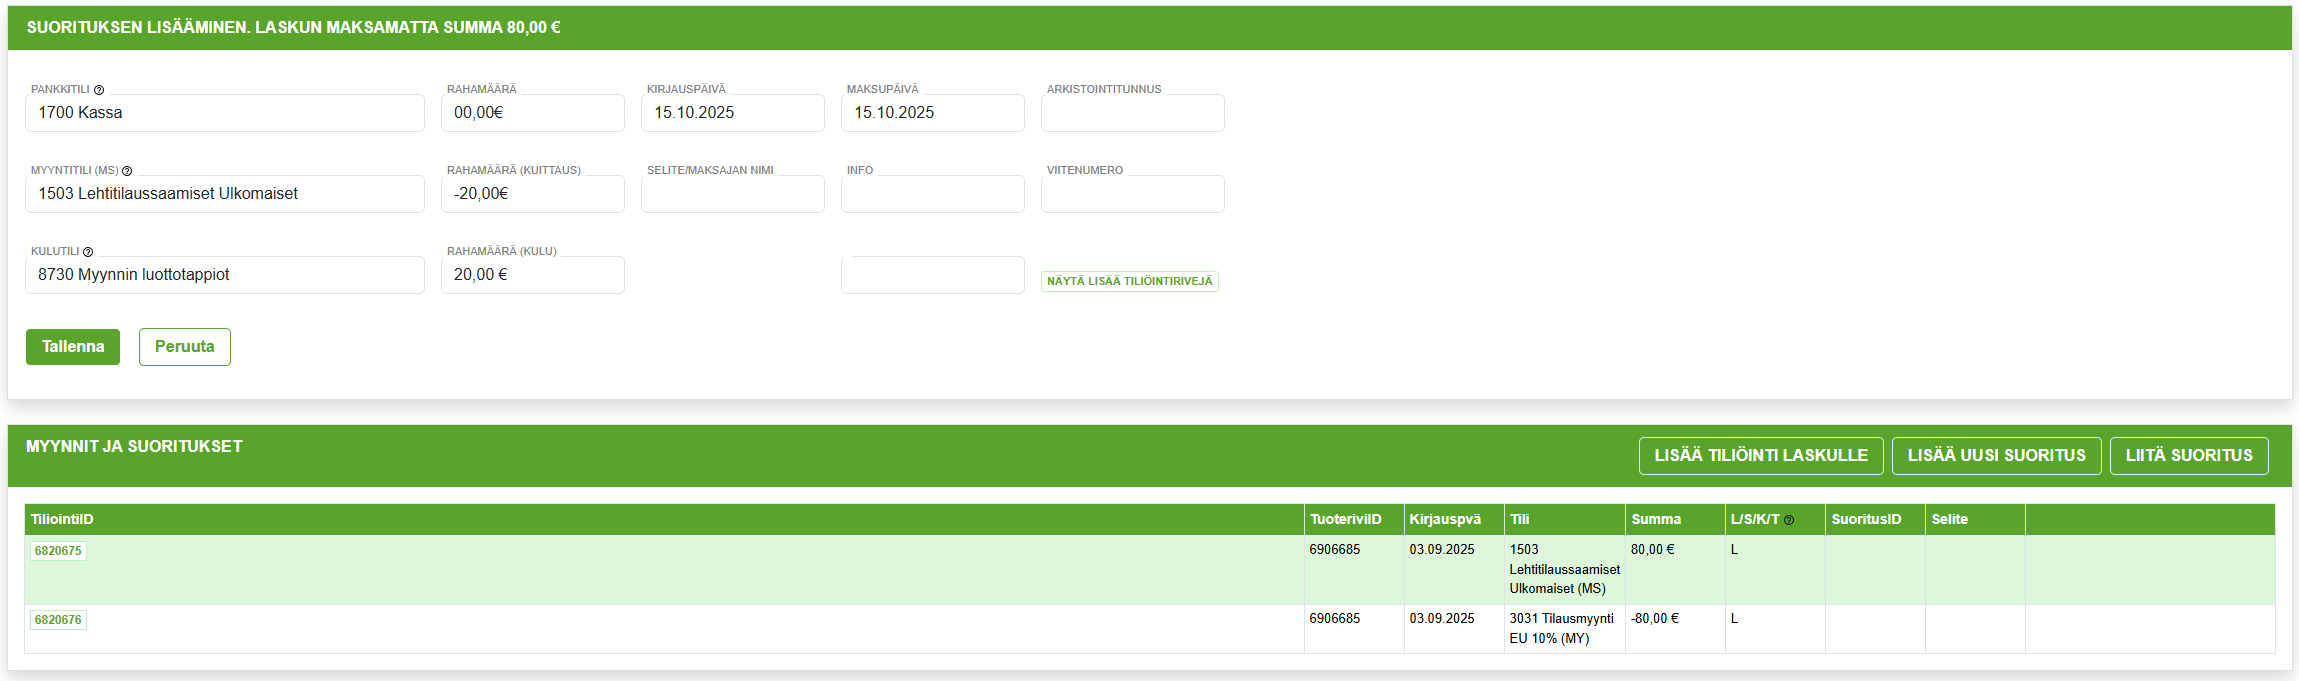
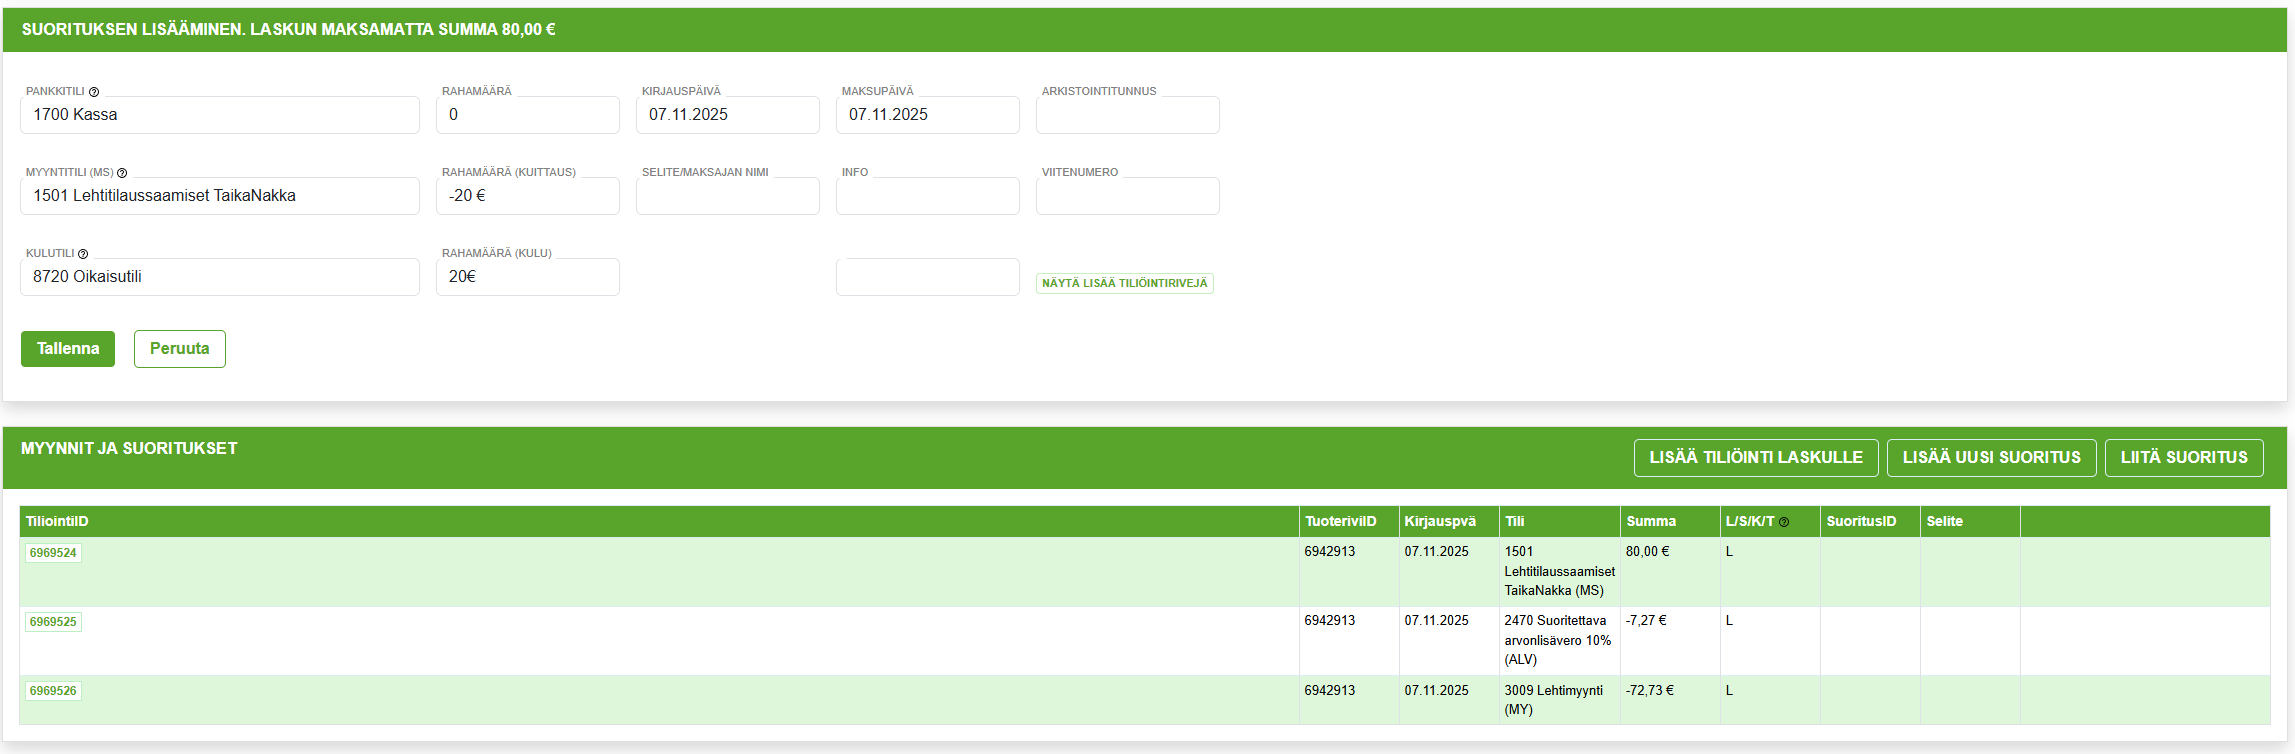
osahyvitys kuvat

diff --git a/docs/ohjeet/ilmoitustenhallinta/ilmoitusasiakas.md b/docs/ohjeet/ilmoitustenhallinta/ilmoitusasiakas.md
@@ -6,89 +6,129 @@ sidebar_position: 1
 
 ## Ilmoitusasiakas
 
-Asiakaskohtaiseen **Ilmoitusasiakas**–palveluun pääsee hakemalla asiakkaan etusivulta ja sitten klikkaamalla **Näytä ilmoitusmyynti** –linkkiä asiakasriviltä.
+Asiakaskohtaiseen **Ilmoitusasiakas**–palveluun pääsee hakemalla asiakkaan **Etusivulta** ja klikkaamalla **Näytä ilmoitusmyynti** -linkkiä asiakasriviltä.
 
 ![Etusivu](/img/ohjeet/ilmoitusasiakas.png)
 
 *Etusivun haun kautta pääset ilmoitusmyynnin hallintaan.*
 
-Ohjelman päävalikkoon ilmestyy uusi **Ilmoitusasiakas**-välilehti, josta pääsee palaamaan haetun asiakkaan tietoihin takaisin, mikäli siirtyy välillä muualle ohjelmaan.
+Kun ilmoitusasiakas on avattu, ohjelman päävalikkoon ilmestyy uusi **Ilmoitusasiakas**-välilehti. Sen kautta pääset helposti palaamaan asiakkaan tietoihin, vaikka siirtyisit välillä ohjelman muihin osiin.
 
 ![Ilmoitusasiakas-välilehti](/img/ohjeet/ilmoitusasiakas3.png)
 
 *Löydät käsittelemäsi ilmoitusasiakkaan ohjelman päävalikosta vaikka välillä tekisit ohjelmassa jotain muuta.*
 
+---
+
 ## Ilmoitusasiakkaan koontisivu ja välilehdet
 
-**Ilmoitusasiakas**-näkymässä näytetään asiakkaan tiedot ja välilehdet, jotka myös asiakas itse näkee kirjautuessaan OmaPalveluun. Myyjä näkee ylävalikossa lisäksi **Muistio** ja **Myynnit**-välilehdet, joita asiakas ei itse näe. Asiakkaan valitsemisen jälkeen myyjä näkee kyseisen asiakkaan Koonti-näkymän
+**Ilmoitusasiakas**-näkymässä näytetään asiakkaan perustiedot sekä välilehdet, jotka myös asiakas itse näkee kirjautuessaan **OmaPalveluun**. Myyjällä näkyy lisäksi ylävalikossa **Muistio** ja **Myynnit** -välilehdet, joita asiakas ei itse näe.
 
-- Myyjä voi suorittaa myös asiakkaan puolesta toimintoja, kuten omien tietojen päivittämistä
+Asiakkaan valitsemisen jälkeen myyjä näkee asiakkaan **Koonti-näkymän**, josta voi hallita myyntiä ja yhteystietoja.
+
+- Myyjä voi suorittaa asiakkaan puolesta toimintoja, kuten omien tietojen päivittämisen.
 
 ![Ilmoitusasiakas-välilehti](/img/ohjeet/ilmoitusasiakas2.png)
 *Ilmoitusasiakkaan etusivu.*
 
 ### Asiakastiedot
 
-**Asiakastiedot/Omat tiedot** –välilehdellä voi muokata asiakkaan perustietoja, kuten
-- Yhteystietoja
-- Laskutustietoja
-- Yhteyshenkilöiden tietoja
+**Asiakastiedot / Omat tiedot** –välilehdellä voidaan muokata asiakkaan perustietoja, kuten:
+- **Yhteystietoja**
+- **Laskutustietoja**
+- **Yhteyshenkilöiden tietoja**
+
+---
+
+#### Yhteys- ja laskutustiedot
 
 **Yhteys- ja laskutustiedot** vastaavat asiakaskortille tallennettuja tietoja.
-- Laskutustiedoista voidaan myös asettaa asiakas Myyntikieltoon, milloin asiakkaalle ei voi luoda ilmoitusvarauksia (esim. maksamattomien laksujen takia)
-- Myyntikielto asetetaan syöttämällä kenttään vapaamuotoista tekstiä
-- Myyntikielto poistetaan poistamalla kenttään syötetty teksti
 
-**Yhteyshenkilöt** –listaukselle voi tallentaa ilmoitusmyynteihin liittyvien henkilöiden yhteystietoja, kuten esim.
-- Aineistoista vastaavien henkilöiden yhteystiedot
-- Ulkopuoliset aineistojen toimittajat
+- **Laskutustiedoista** voidaan asettaa asiakas **Myyntikieltoon**, jolloin asiakkaalle **ei voi luoda ilmoitusvarauksia** (esim. maksamattomien laskujen vuoksi).  
+- Myyntikielto asetetaan **syöttämällä kenttään vapaamuotoinen teksti**.  
+- Myyntikielto poistetaan **poistamalla kenttään syötetty teksti**.
 
 ![Ilmoitusasiakas - Omat tiedot](/img/ohjeet/omattiedot-ilmoitusmyynti.png)
-*Ilmoitusasiakkaan omissa tiedoissa ovat asiakkaan yhteystiedot ja laskutustiedot*
+*Ilmoitusasiakkaan omissa tiedoissa näkyvät asiakkaan yhteystiedot ja laskutustiedot.*
 
 ![Ilmoitusasiakas - Myyntikielto](/img/ohjeet/myyntikielto.png)
-*Ilmoitusasiakkaan myynti välilehdeltä näet, jos asiakkaalle on asetettu myyntikielto*
+*Ilmoitusasiakkaan Myynti-välilehdeltä näet, jos asiakkaalle on asetettu myyntikielto.*
+
+---
+
+#### Yhteyshenkilöt
+
+**Yhteyshenkilöt**–listaukselle voidaan tallentaa ilmoitusmyynteihin liittyvien henkilöiden yhteystietoja, kuten esimerkiksi:
+- aineistoista vastaavien henkilöiden tiedot  
+- ulkopuoliset aineistojen toimittajat  
+
+---
 
 ### Aineistopankki
 
-**Aineistopankki**–välilehdellä voi tallentaa esim. asiakkaan usein tarvitsemia aineistoja, kuten
-- Logoja
-- Kuvia
+**Aineistopankki**–välilehdellä voidaan tallentaa asiakkaan usein käyttämiä aineistoja, kuten:
+- **Logoja**
+- **Kuvia**
 
-Ladattava aineisto haetaan omalta koneelta ja lisätään kuvaus sen sisällöstä (esim. logo (väri), logo (mv)). Aineisto tallennetaan palveluun **Lisää aineisto aineistopankkiin** -painikkeesta.
+Ladattava aineisto haetaan omalta koneelta ja sille lisätään **kuvaus sisällöstä** (esim. *logo (väri)*, *logo (mv)*). Aineisto tallennetaan palveluun **Lisää aineisto aineistopankkiin** -painikkeesta.
 
 ![Ilmoitusasiakas - Aineistopankki](/img/ohjeet/aineistopankki.png)
 
 *Voit ladata aineistopankkiin asiakkaan usein käyttämiä aineistoja.*
 
+---
+
 ### Ilmoitukset
 
-**Ilmoitukset** –välilehdellä näkee kaikki asiakkaaseen **liitetyt ilmoitukset** (menneet ja avoimet) ja voi hallinnoida mm. ilmoitustilauksiin liittyviä aineistojen tiedostoja, kommentointeja ja hyväksyntöjä. Listauksella näkee yksittäisen ilmoituksen valmistusta varten palveluun ladatut aineistot, sekä aineistojen kuvaukset.
+**Ilmoitukset**–välilehdellä näet kaikki asiakkaaseen **liitetyt ilmoitukset** (menneet ja avoimet) ja voit hallinnoida ilmoitustilauksiin liittyviä:
+- **aineistotiedostoja**
+- **kommentointeja**
+- **hyväksyntöjä**
+
+Listauksella näkyvät kaikki asiakkaan ilmoitukset sekä niihin liittyvät aineistot ja aineistojen kuvaukset.
 
 ![Ilmoitusasiakas - Ilmoitukset](/img/ohjeet/ilmoitukset-lista.png)
 *Ilmoitukset-välilehdeltä näet asiakkaan ilmoitukset ja voit hallinnoida niitä.*
 
-Listauksella näytettäviä ilmoitusvarauksia voi järjestää
-- **Lajittelutieto**–valikon (Alkupäivä / Varausnumero) ja
-- **Lajittelujärjestys**–valikon avulla (Nouseva / Laskeva)
-- Aktivoimalla **Piilota menneet** –valintaruutu, mikä piilottaa kaikki ilmoitukset, jotka ovat ilmestyneet menneissä julkaisuissa.
+---
+
+#### Ilmoitusten suodatus ja järjestäminen
+
+Ilmoitusvarauksia voi järjestää ja suodattaa seuraavasti:
+
+- **Lajittelutieto** – (Alkupäivä / Varausnumero)  
+- **Lajittelujärjestys** – (Nouseva / Laskeva)  
+- **Piilota menneet** – valintaruudulla piilotat kaikki jo ilmestyneet ilmoitukset 
 
 ![Ilmoitusasiakas - Ilmoitukset](/img/ohjeet/ilmoitukset-suodatus.png)
 *Voit järjestää ja suodattaa ilmoitusten listausta eri valinnoilla.*
 
-Avoimia ilmoitusvarauksia voi käsitellä
-- päivittämällä Ilmoitustekstiä
-- lisäämällä kuva-aineistoa
-- lähettämällä aineiston ulkopuoliselle käsittelijälle latauslinkin palveluun
+---
+
+#### Avoimien ilmoitusten käsittely
+
+Avoimia ilmoitusvarauksia voidaan käsitellä mm.:
+
+- **päivittämällä ilmoitustekstiä**  
+- **lisäämällä kuva-aineistoa**  
+- **lähettämällä aineiston toimittajalle latauslinkki** palveluun  
 
 ![Ilmoitusasiakas - Ilmoitukset](/img/ohjeet/aineisto.png)
 *Ilmoituksia voi käsitellä eri tavoilla.*
 
-**Lähetä latauslinkki** -painikkeesta lähetetään aineiston toimittajan sähköpostiin linkki, millä hän voi kirjautua OmaIlmoitus –palveluun ja siellä ladata juuri kyseiseen ilmoitukseen liittyviä aineistoja. Painike näkyy vain, jos mainosta/ilmoitusta ei ole vielä otettu käsittelyyn.
+---
+
+#### Lähetä latauslinkki
+
+**Lähetä latauslinkki** -painikkeesta lähetetään aineiston toimittajalle sähköpostitse linkki, jonka kautta hän voi tulla palveluun ja ladata kyseiseen ilmoitukseen liittyvät aineistot.  
+
+Painike näkyy vain, jos ilmoitusta **ei ole vielä otettu käsittelyyn**.
 
 ![Ilmoitukset - Latauslinkin lähetys](/img/ohjeet/latauslinkki.png)
 
 *Voit lähettää latauslinkin aineiston toimittajalle.*
+
+---
 
 **Muuta ilmoitustekstiä** -painikkeista voi antaa ilmoituksen sisältötekstin esim. rivi-ilmoitukseen. Painiketta ei näytetä, mikäli Ilmoitus tulee valmiina aineistona –asetus on myyntivarauksessa aktivoituna
 

diff --git a/docs/ohjeet/yleiset_ominaisuudet/suoritukset.md b/docs/ohjeet/yleiset_ominaisuudet/suoritukset.md
@@ -264,7 +264,7 @@ Tiliöintejä/suorituksia voi lisätä laskulle **Lisää tiliöinti laskulle** 
 - Alkuperäinen lasku 80,00 €, josta sovittu maksettavaksi 20,00 € kirjataan
 - Pankkitilille (S) 0,00 €  
 - Myyntisaamisiin (K) -20,00 €
-- Kulutilille (T) -20,00 €
+- Kulutilille (oikaisutili) (T) -20,00 € 
 - Maksamatta summaksi jää 60,00 €
 - kyseinen lasku lähetetään uudelleen asiakkaalle (laskun Pankkisiirto-osiossa näkyy Maksamatta summa)
 
